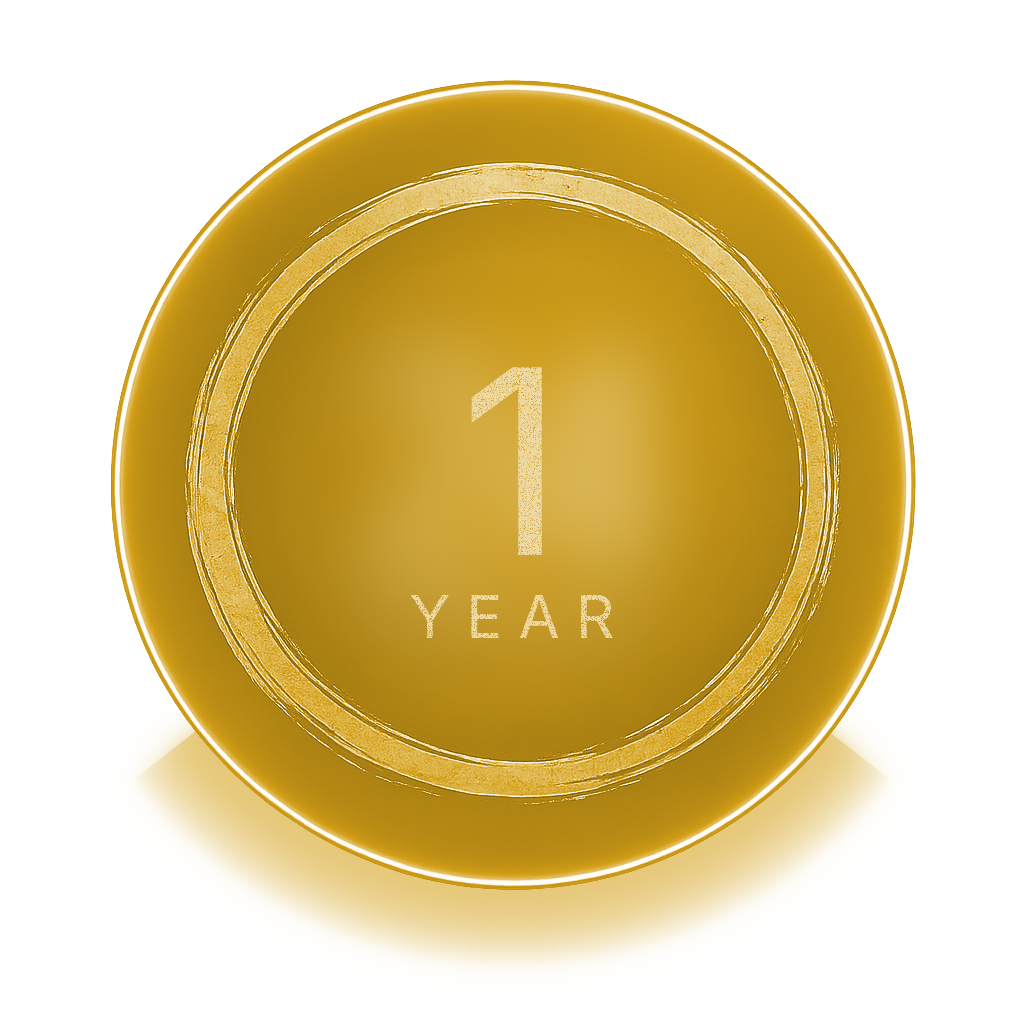
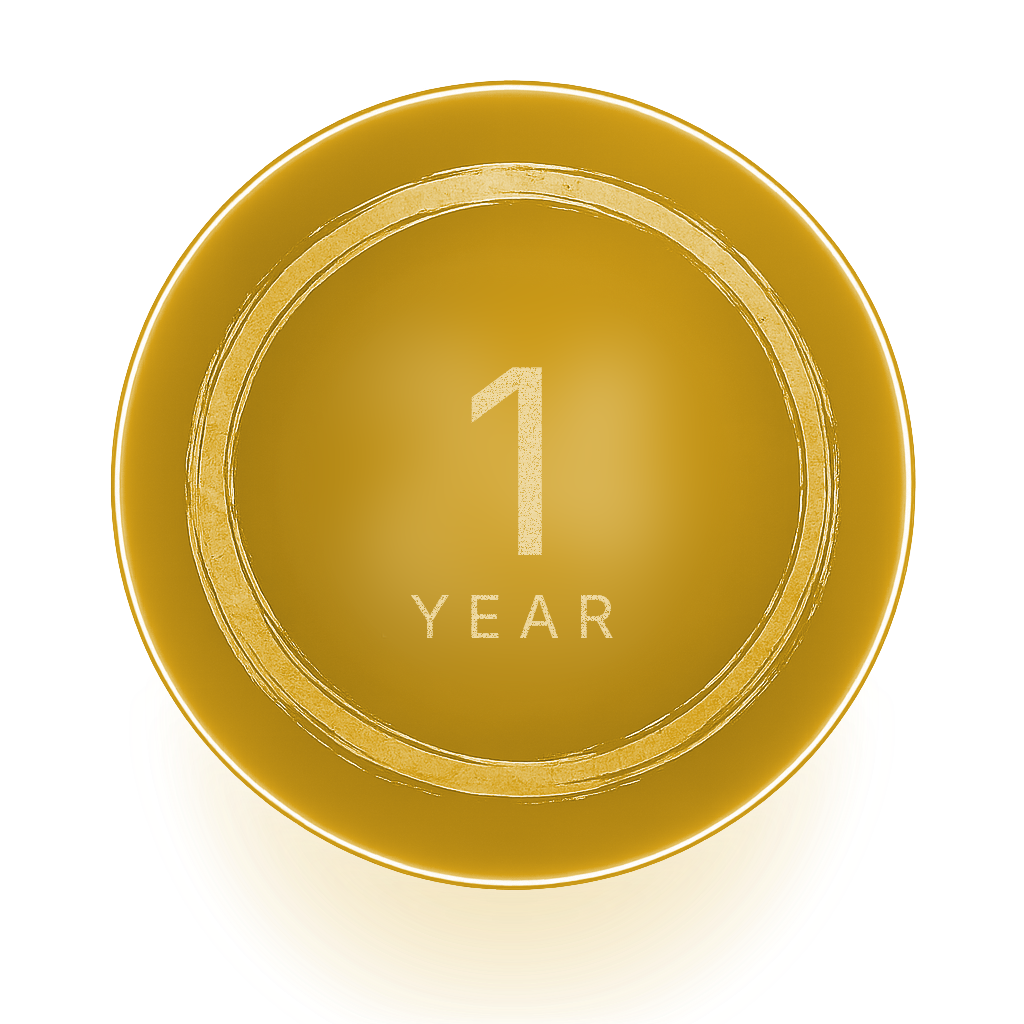
Make under-glow a soft diffuse shadow, no hard angular ends
Replaces the annular sector (which had hard angles at the band ends and
read solid) with a radial gradient anchored inside the lower half of
the disc, then carved out by the disc itself. Because the gradient is
radial it falls off in every direction — outward AND laterally — so the
shadow tapers naturally smaller toward the coin's sides instead of
ending abruptly. Lowered opacity (0.55–0.9 across blur passes) makes it
read as a shadow rather than a band.

https://claude.ai/code/session_01TqmVcPLJNZuf7Q6XCPWgNk

Changed region(s): [[0.125, 0.7188, 0.875, 1.0]]

diff --git a/scripts/generate-badges.ts b/scripts/generate-badges.ts
@@ -292,12 +292,13 @@ function applyTint(ctx: SKRSContext2D, hex: string) {
   ctx.putImageData(img, 0, 0)
 }
 
-// Crescent glow that hugs the bottom curvature of the coin — both the
-// inner and outer edges are arcs concentric with the disc, so the glow
-// band itself follows the coin's curve. Built as an annular sector
-// (donut wedge) at the disc's bottom, filled with a radial gradient
-// that's brightest at the disc edge and fades outward, then composited
-// with multi-radius blur for a soft halo.
+// Soft shadow under the coin that hugs its bottom curvature. Built from
+// a radial gradient anchored inside the lower half of the disc — the
+// disc itself is then carved out, leaving the gradient visible only
+// below the coin. Because the gradient is radial it falls off in every
+// direction (outward AND laterally), so the shadow naturally tapers
+// smaller toward the sides of the coin instead of having hard angular
+// ends. Heavy blur + lowered opacity make it read as shadow, not band.
 function drawUnderGlow(ctx: SKRSContext2D, hex: string) {
   const [r, g, b] = hexToRgb(hex)
   const a = 0.4
@@ -308,38 +309,38 @@ function drawUnderGlow(ctx: SKRSContext2D, hex: string) {
   const off = createCanvas(SIZE, SIZE)
   const octx = off.getContext('2d')
 
-  // Annular sector that wraps the bottom of the disc.
-  const innerR = 395  // disc outer edge — glow's inner edge touches here
-  const outerR = 485  // glow extends 90px outward
-  const startAng = Math.PI * (38 / 180)
-  const endAng = Math.PI * (142 / 180)
+  // Gradient center sits inside the lower half of the disc so the
+  // visible part (after disc cutout) peaks right at the coin's bottom
+  // edge and fades laterally + downward.
+  const gx = CX
+  const gy = CY + 220
+  const innerR = 60
+  const outerR = 360
 
-  octx.beginPath()
-  octx.arc(CX, CY, outerR, startAng, endAng)
-  octx.arc(CX, CY, innerR, endAng, startAng, true)
-  octx.closePath()
-
-  // Bright at inner edge (touching the coin), fading to transparent
-  // at the outer edge of the band.
-  const grad = octx.createRadialGradient(CX, CY, innerR, CX, CY, outerR)
-  grad.addColorStop(0, `rgba(${lr}, ${lg}, ${lb}, 0.95)`)
-  grad.addColorStop(0.5, `rgba(${lr}, ${lg}, ${lb}, 0.45)`)
+  const grad = octx.createRadialGradient(gx, gy, innerR, gx, gy, outerR)
+  grad.addColorStop(0, `rgba(${lr}, ${lg}, ${lb}, 0.55)`)
+  grad.addColorStop(0.45, `rgba(${lr}, ${lg}, ${lb}, 0.25)`)
   grad.addColorStop(1, `rgba(${lr}, ${lg}, ${lb}, 0)`)
   octx.fillStyle = grad
+  octx.fillRect(0, 0, SIZE, SIZE)
+
+  // Cut the disc out so the shadow is visible only below the coin.
+  octx.globalCompositeOperation = 'destination-out'
+  octx.fillStyle = '#000'
+  octx.beginPath()
+  octx.arc(CX, CY, 395, 0, Math.PI * 2)
   octx.fill()
 
-  // Composite back with stacked blurs so the band's hard angle ends
-  // soften into a natural taper and the inner edge bleeds slightly
-  // up against the coin.
+  // Composite with stacked blurs for a soft, diffuse shadow read.
   ctx.save()
-  ctx.globalAlpha = 0.65
-  ctx.filter = 'blur(22px)'
+  ctx.globalAlpha = 0.55
+  ctx.filter = 'blur(28px)'
   ctx.drawImage(off, 0, 0)
-  ctx.globalAlpha = 0.85
-  ctx.filter = 'blur(8px)'
+  ctx.globalAlpha = 0.7
+  ctx.filter = 'blur(12px)'
   ctx.drawImage(off, 0, 0)
-  ctx.globalAlpha = 1
-  ctx.filter = 'none'
+  ctx.globalAlpha = 0.9
+  ctx.filter = 'blur(4px)'
   ctx.drawImage(off, 0, 0)
   ctx.restore()
 }
